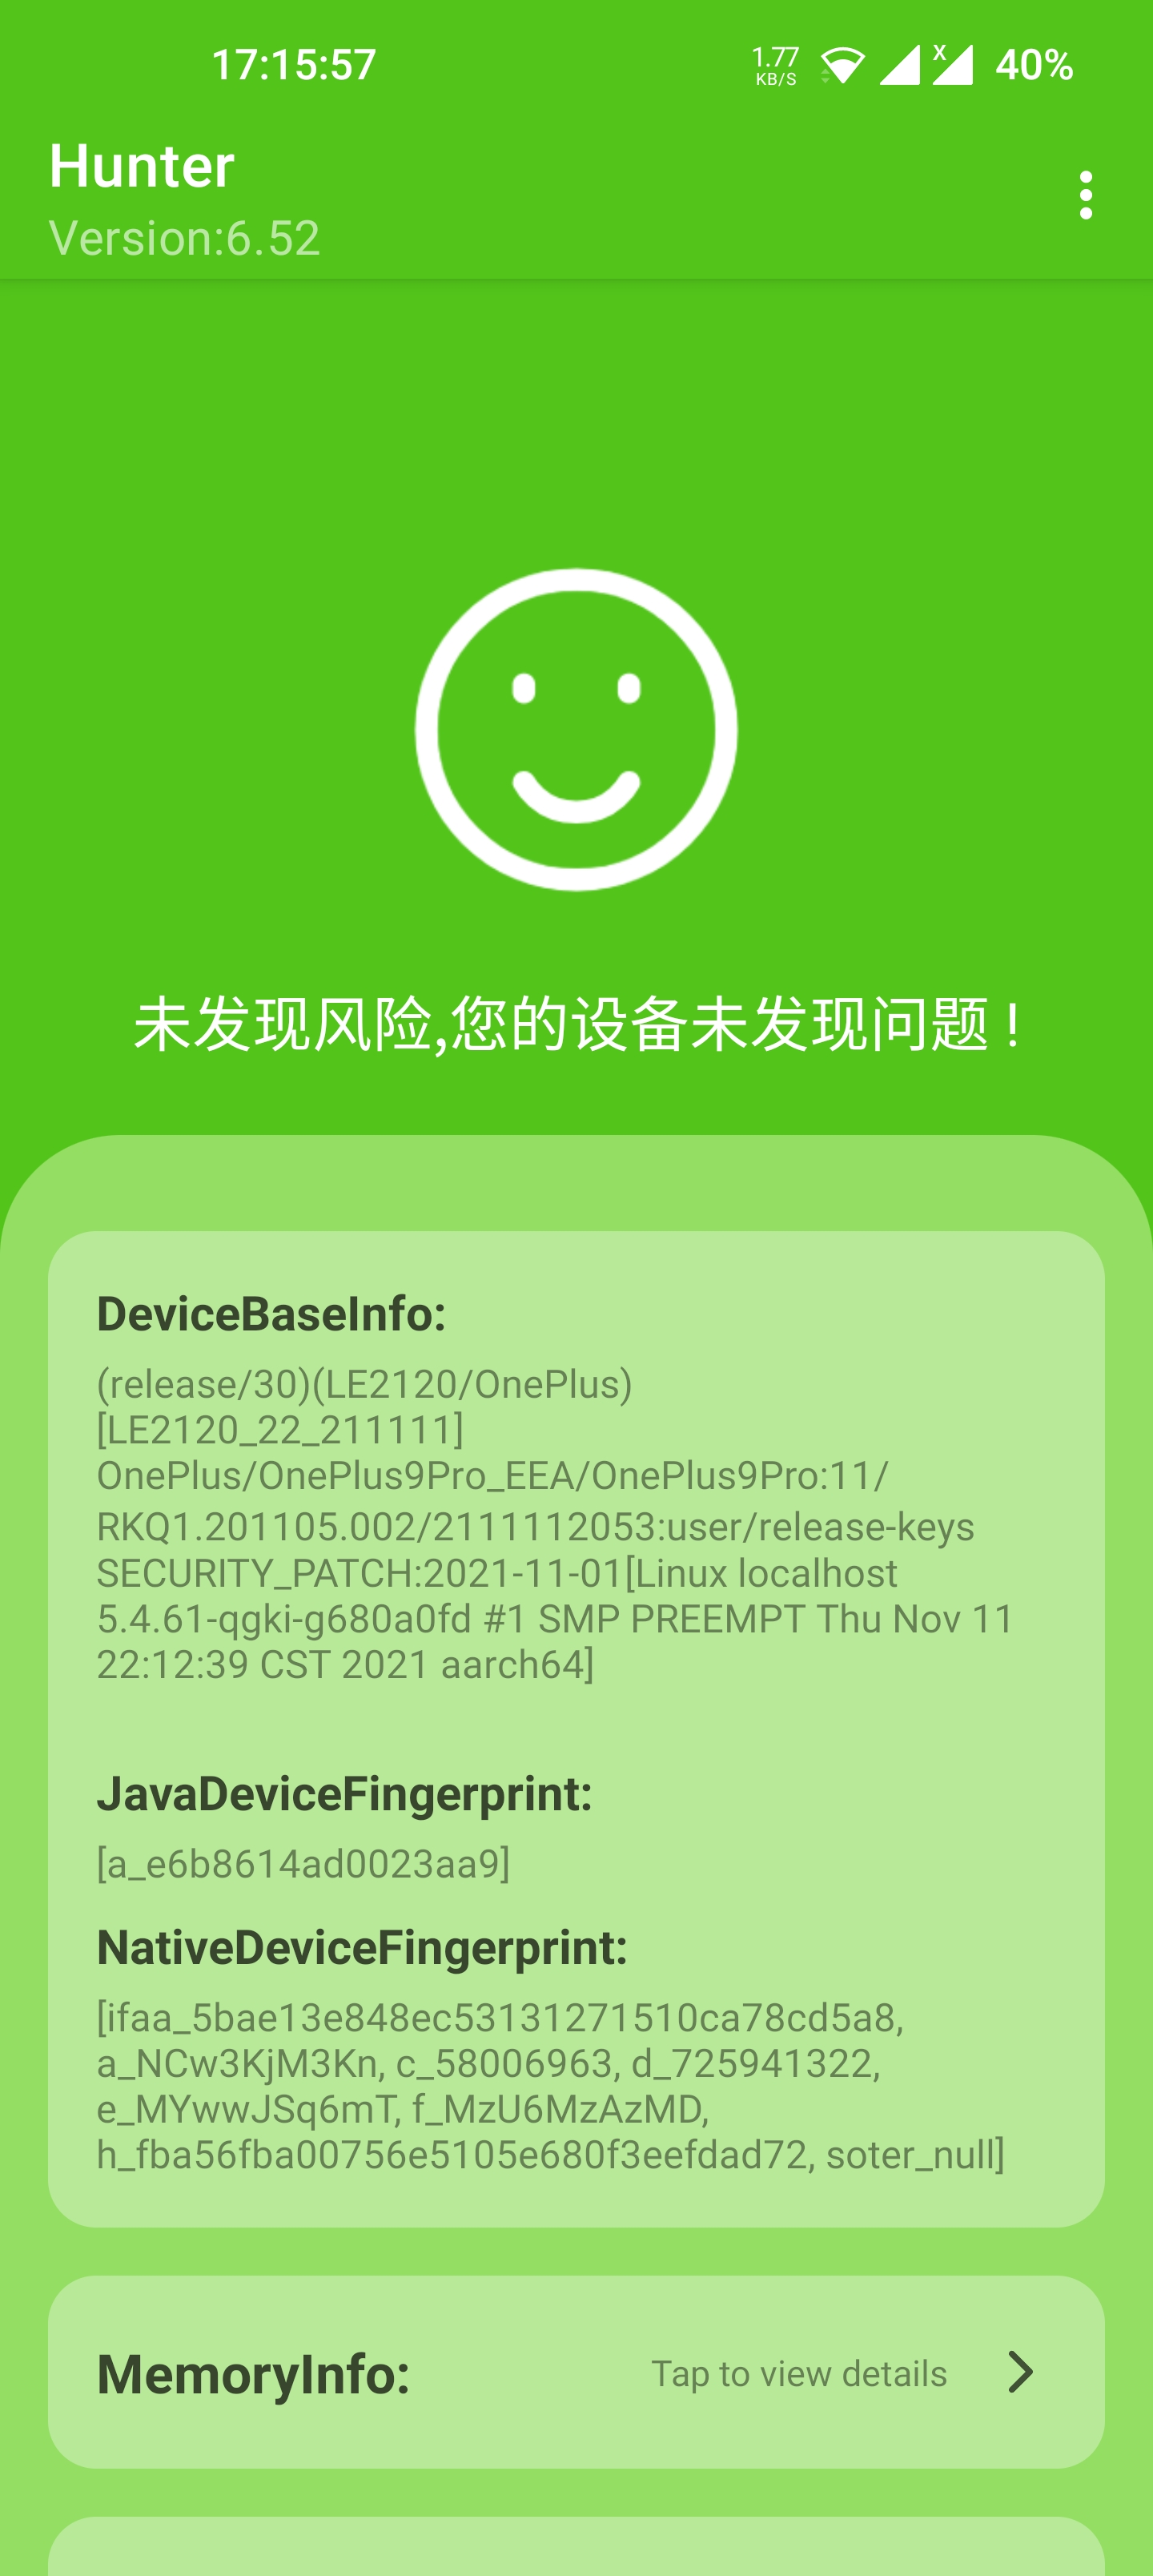
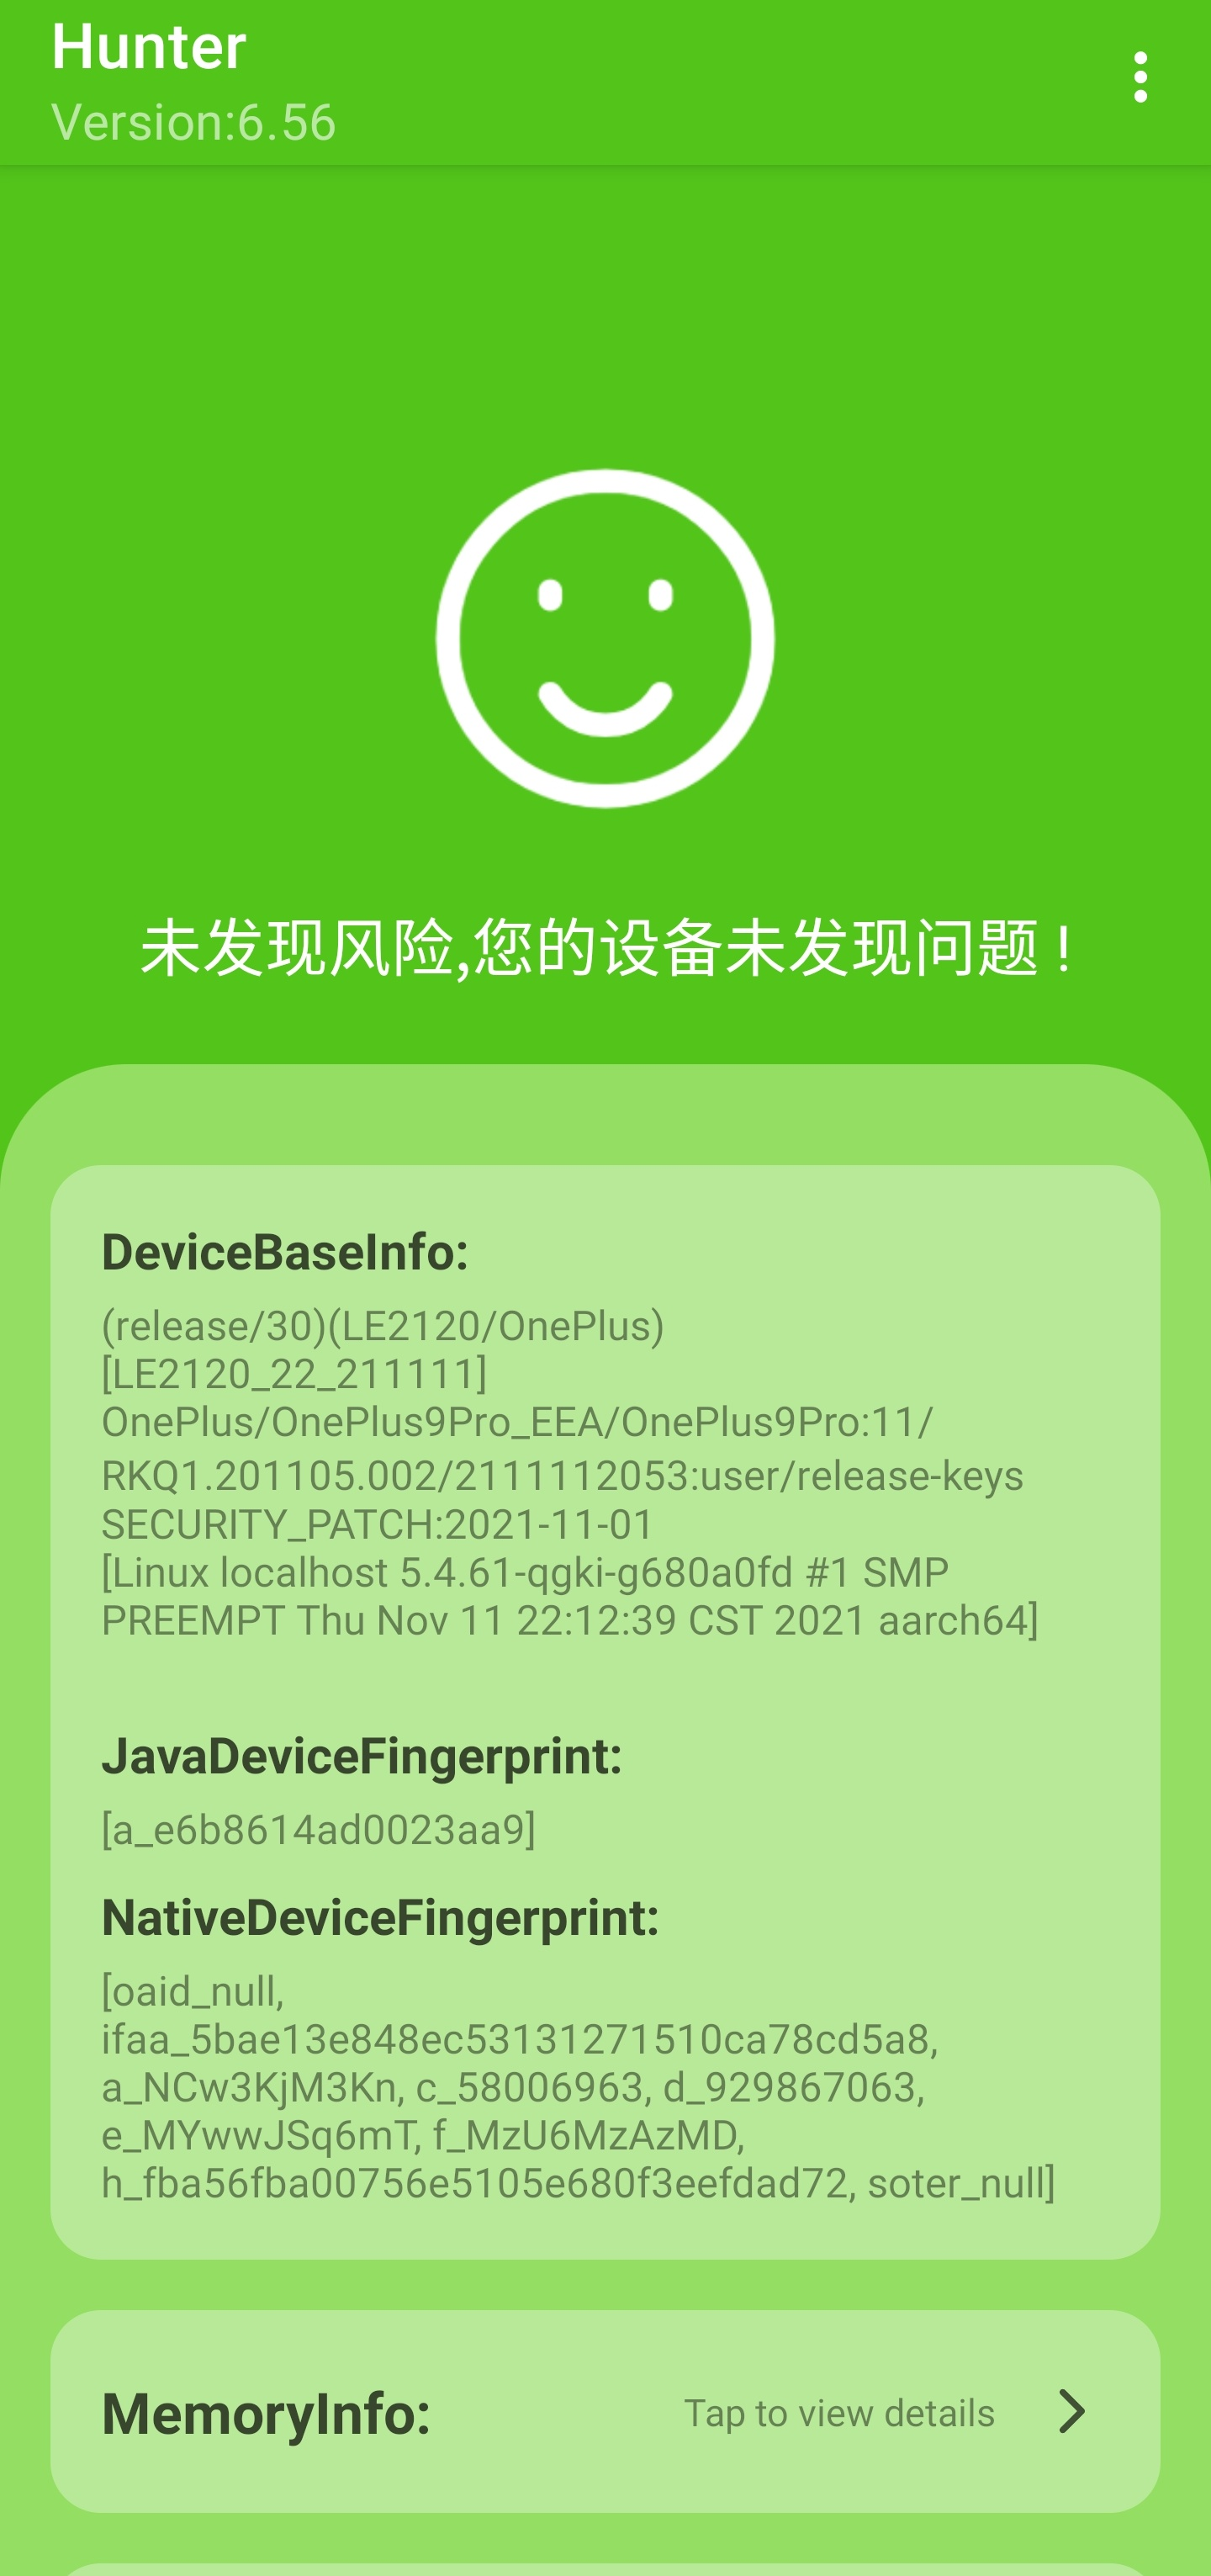
Regular update (20260127141106716353100)

diff --git a/Detectors/README.md b/Detectors/README.md
@@ -66,8 +66,8 @@ Momo $\rightarrow$ Native Root Detector $\rightarrow$ Native Test ++
 
 - **Package Name**: ``com.zhenxi.hunter``
 - **Developing Purpose**: Environment Detection
-- **Latest Version**: ``v6.52 (652)``
-- **Release Date**: On or Before November 24th, 2025
+- **Latest Version**: ``v6.56 (656)``
+- **Release Date**: On or Before January 27th, 2026
 - **Detection Remark**: Please wait about 20 seconds to complete the detection and display. On some occasions, the output of several specified issues will get loop. 
 
 ### IIQE 一考通
@@ -403,8 +403,8 @@ Momo $\rightarrow$ Native Root Detector $\rightarrow$ 牛头人
 
 - **应用包名**：``com.zhenxi.hunter``
 - **开发用途**：环境检测
-- **最新版本**：``v6.52 (652)``
-- **发行日期**：不晚于 2025 年 11 月 24 日
+- **最新版本**：``v6.56 (656)``
+- **发行日期**：不晚于 2026 年 1 月 27 日
 - **检测备注**：请等待 20 秒左右以完成检测和显示，某些情况下可能会一直输出某几个问题。
 - ![hunterCN.jpg](hunterCN.jpg)
 

diff --git a/README.md b/README.md
@@ -8,7 +8,7 @@ We only keep the latest versions for each implementer, detector, and bypasser he
 
 The open source community should be a community with high geek and contribution spirits. Nevertheless, in recent years, some [events](./Others/Events.md) have occurred frequently, where we felt heartbroken about the unfriendly ones. We call on the open source community to maintain internal unity and harmony, respecting developers and open source licenses. The open source community should not harm the interests of for-profit organizations, and for-profit organizations should not suppress the development of the open source community. 
 
-The last update of this repository was at 0:00 on January 27th, 2026 (UTC+8). Happy New Year to all! 
+The last update of this repository was at 14:00 on January 27th, 2026 (UTC+8). Happy New Year to all! 
 
 ---
 
@@ -22,4 +22,4 @@ The last update of this repository was at 0:00 on January 27th, 2026 (UTC+8). Ha
 
 开源社区应当是一个具有极客精神和极高贡献精神的纯净社区，近年来，一些[事件](./Others/Events.md)频发，我们对其中的不友好事件感到心痛。我们呼吁开源社区保持内部团结与和谐，尊重开发者和开源许可。开源社区不应损害营利性机构的利益，营利性机构也不应抑制开源社区的发展。
 
-本存储库最后一次更新时间为 2026 年 1 月 27 日 0:00（东八区时间）。祝大家新年快乐！
+本存储库最后一次更新时间为 2026 年 1 月 27 日 14:00（东八区时间）。祝大家新年快乐！

diff --git a/Detectors/TABLE.md b/Detectors/TABLE.md
@@ -12,7 +12,7 @@ en
 | Checker | ``org.akanework.checker`` | | | 环境检测 | ``v1.0.9`` | 早于 2025 年 1 月 8 日 |
 | DRM Info | ``com.androidfung.drminfo`` | [https://play.google.com/store/apps/details?id=com.androidfung.drminfo](https://play.google.com/store/apps/details?id=com.androidfung.drminfo) | | 信息收集 | ``v1.1.15-240919`` |  2024 年 9 月 19 日 |
 | Duck Detector | ``com.studio.duckdetector`` | [The telegram channel is private. ](The telegram channel is private. ) | | 环境检测 | ``v1.6.1-8d59eacb (3)`` | 早于 2025 年 12 月 20 日 |
-| Hunter | ``com.zhenxi.hunter`` | | | 环境检测 | ``v6.52 (652)`` | 不晚于 2025 年 11 月 24 日 |
+| Hunter | ``com.zhenxi.hunter`` | | | 环境检测 | ``v6.56 (656)`` | 不晚于 2026 年 1 月 27 日 |
 | IIQE 一考通 | ``com.prudential.iiqe`` | [https://iiqe-cms.prudential.com.hk/iiqe/](https://iiqe-cms.prudential.com.hk/iiqe/) | 安卓桌面应用 | 安卓桌面应用 | ``v6.4.3C88`` |  2025 年 3 月 3 日 |
 | Luna | ``luna.safe.luna`` | [https://www.54nb.com/lunathanks.html](https://www.54nb.com/lunathanks.html)；[http://qm.qq.com/cgi-bin/qm/qr?_wv=1027&k=59DJwD_gUpDYerkoGXf8hLg4X-opZImm&authKey=KZCWgoCQMOhN5M80g8%2Bq3L%2FIJvITTMAKTSevEQbahYSW5YwlW8Vq8v6JQ4hcivfp&noverify=0&group_code=1022646824](http://qm.qq.com/cgi-bin/qm/qr?_wv=1027&k=59DJwD_gUpDYerkoGXf8hLg4X-opZImm&authKey=KZCWgoCQMOhN5M80g8%2Bq3L%2FIJvITTMAKTSevEQbahYSW5YwlW8Vq8v6JQ4hcivfp&noverify=0&group_code=1022646824) | 闭源 | 环境检测 | ``v1.4.2.7`` | 不晚于 2025 年 10 月 9 日 |
 | Key Attestation | ``io.github.vvb2060.keyattestation`` | [https://github.com/vvb2060/KeyAttestation](https://github.com/vvb2060/KeyAttestation)；[https://t.me/magiskalpha](https://t.me/magiskalpha)；[https://t.me/playintegrityfix](https://t.me/playintegrityfix)；[https://github.com/chiteroman/KeyAttestation](https://github.com/chiteroman/KeyAttestation) | 开源 | 密钥认证 | ``v1.8.4`` |  2025 年 2 月 6 日 |